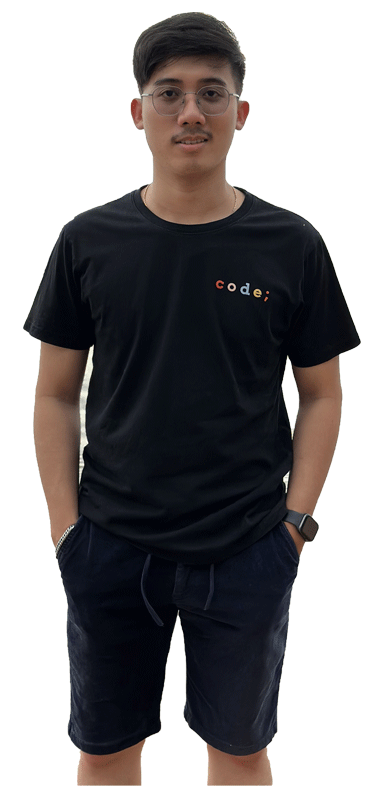
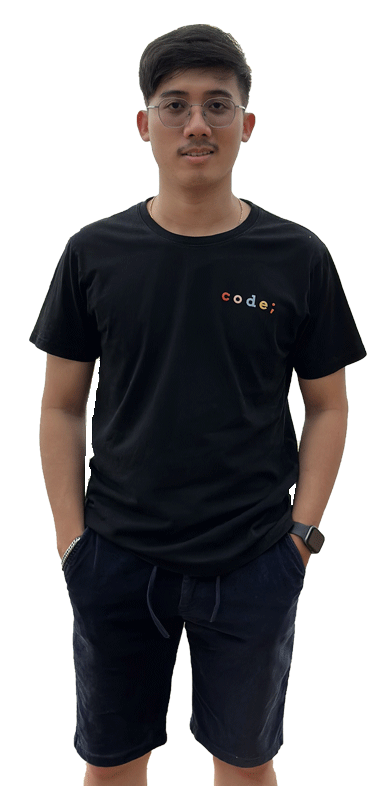
update

diff --git a/index.html b/index.html
@@ -66,14 +66,13 @@
                 </div>
 
                 <div class="col-md-6 text-right">
-                    <img src="assets/img/me3.png" style="object-fit: cover;" alt="visalpou">
+                    <img src="assets/img/hero2.png" style="object-fit: cover;" alt="visalpou">
                 </div>
             </div>
         </div>
     </div>
 
     <main id="main" class="site-main">
-
         <section id="about" class="site-section section-about text-center">
             <div class="container">
                 <div class="row">
@@ -148,7 +147,7 @@
                                 <div class="progress-bar" role="progressbar" data-transitiongoal="60"></div>
                                 <!-- /.progress-bar -->
                             </div><!-- /.progress -->
-                            <span class="progress-label">80%</span>
+                            <span class="progress-label">85%</span>
                         </div><!-- /.skill -->
                     </div>
                 </div>
@@ -222,7 +221,7 @@
                     </div>
                     <div class="col-md-4 col-xs-6">
                         <div class="portfolio-item">
-                            <img src="assets/img/3.jpg" class="img-res" alt="">
+                            <img src="assets/img/mysite.png" class="img-res" alt="">
                             <div class="portfolio-item-info">
                                 <h4>My Own Website</h4>
                                 <a href="#" data-toggle="modal" data-target="#portfolioItem3"><span

diff --git a/assets/css/responsive.css b/assets/css/responsive.css
@@ -413,7 +413,16 @@
 
 /* Extra Small Devices, Phones */ 
 @media only screen and (max-width : 479px) {
-
+	.site-header{
+		background-color: #dbd9d9 !important;
+	}
+	.hero { 
+		/* background: url(../img/bg1.jpg) no-repeat center / cover; */
+		background-color: #fff;
+		height: 100%;
+		width: 100%;
+		min-height: 700px;
+	}
 	.footer{
 		display: flex; 
 		gap: 5px;

diff --git a/assets/css/style.css b/assets/css/style.css
@@ -174,12 +174,12 @@ html, body {
 
 /* HERO
 ================================================== */
-.hero { 
-    background: url(../img/bg.jpg) no-repeat center / cover; 
+/* .hero { 
+    background: url(../img/bg1.jpg) no-repeat center / cover; 
     height: 100%;
     width: 100%;
     min-height: 700px;
-}
+} */
 
 .hero .container {
     position: relative;
